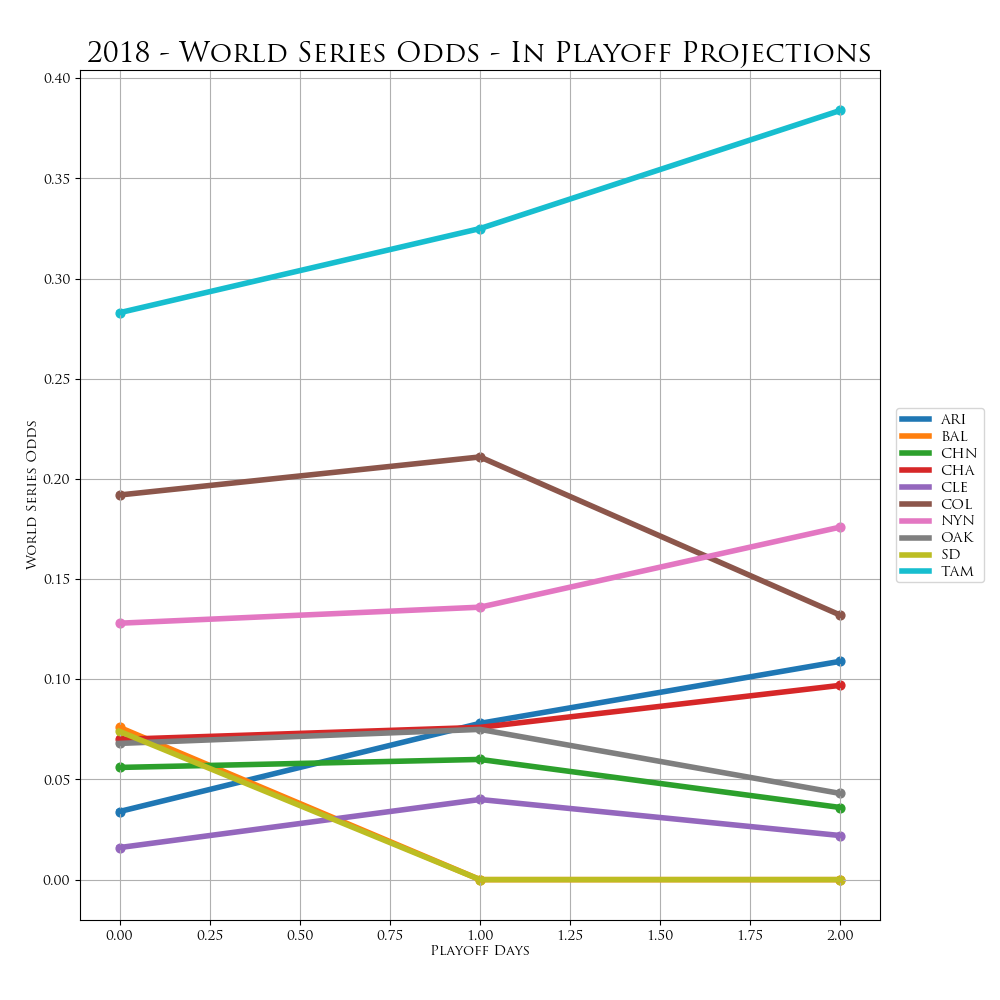
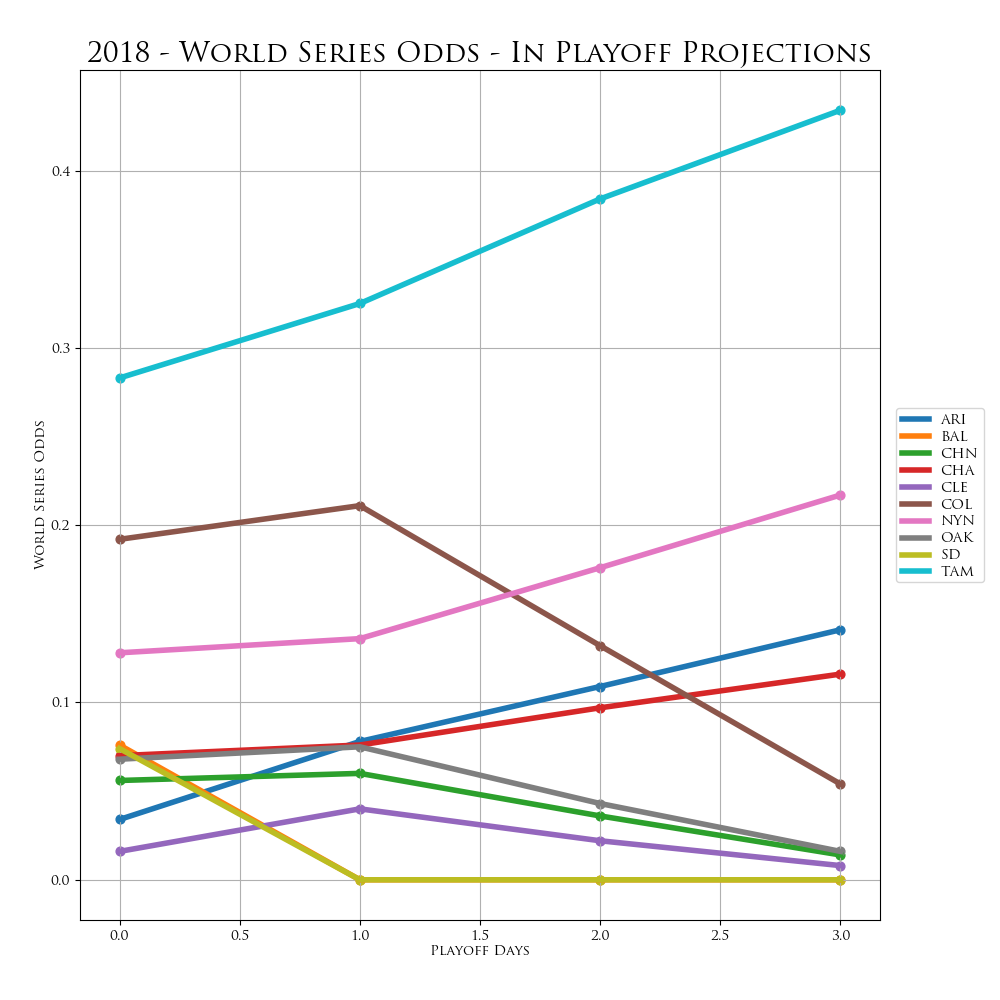
playoff NSBL update (Nov 08, 2018)

diff --git a/Tables/in_playoff_bracket.html b/Tables/in_playoff_bracket.html
@@ -227,7 +227,7 @@ c+"</h1><div>"+("function"===typeof e.message?e.message(b,h,e):e.message)+"</div
 </script>
 <script>
 		$(document).ready(function() {
-			$("#table").DataTable({"dom":"Bfrtip","sScrollX":"100%","scrollY":"70vh","buttons":["copy","csv","json","print"],"paging":true,"lengthMenu":[[-1,10,25,50],["All",10,25,50]],"data":[["ALDS1","Chicago White Sox","Oakland Athletics","1","0","68.9%","25.1%","25.1%","18.7%","",""],["ALDS1","Oakland Athletics","Chicago White Sox","0","1","31.1%","","12.4%","18.7%","",""],["ALDS2","Cleveland Indians","Tampa Bay Rays","0","1","14.7%","","5.1%","9.6%","",""],["ALDS2","Tampa Bay Rays","Cleveland Indians","1","0","85.3%","39.6%","29.4%","16.3%","",""],["ALWC","Baltimore Orioles","Cleveland Indians","0","1","0.0%","","","","",""],["ALWC","Cleveland Indians","Baltimore Orioles","1","0","100.0%","","","","",""],["NLDS1","Chicago Cubs","New York Mets","0","1","24.5%","","9.3%","15.2%","",""],["NLDS1","New York Mets","Chicago Cubs","1","0","75.5%","30.0%","27.1%","18.4%","",""],["NLDS2","Arizona Diamondbacks","Colorado Rockies","1","0","58.7%","19.1%","21.5%","18.2%","",""],["NLDS2","Colorado Rockies","Arizona Diamondbacks","0","1","41.3%","","17.9%","23.4%","",""],["NLWC","Arizona Diamondbacks","San Diego Padres","1","0","100.0%","","","","",""],["NLWC","San Diego Padres","Arizona Diamondbacks","0","1","0.0%","","","","",""]],"sScrollXInner":"100%","columns":[{"title":"Series ID"},{"title":"Team Name"},{"title":"Opponent Name"},{"title":"Series Wins"},{"title":"Series Losses"},{"title":"Advance Probability"},{"title":"Win in 3"},{"title":"Win in 4"},{"title":"Win in 5"},{"title":"Win in 6"},{"title":"Win in 7"}],"iDisplayLength":-1});
+			$("#table").DataTable({"dom":"Bfrtip","sScrollX":"100%","scrollY":"70vh","buttons":["copy","csv","json","print"],"paging":true,"lengthMenu":[[-1,10,25,50],["All",10,25,50]],"data":[["ALDS1","Chicago White Sox","Oakland Athletics","2","0","87.6%","50.1%","25.0%","12.5%","",""],["ALDS1","Oakland Athletics","Chicago White Sox","0","2","12.4%","","","12.4%","",""],["ALDS2","Cleveland Indians","Tampa Bay Rays","0","2","5.1%","","","5.1%","",""],["ALDS2","Tampa Bay Rays","Cleveland Indians","2","0","94.9%","63.0%","23.3%","8.6%","",""],["ALWC","Baltimore Orioles","Cleveland Indians","0","1","0.0%","","","","",""],["ALWC","Cleveland Indians","Baltimore Orioles","1","0","100.0%","","","","",""],["NLDS1","Chicago Cubs","New York Mets","0","2","9.3%","","","9.3%","",""],["NLDS1","New York Mets","Chicago Cubs","2","0","90.7%","54.7%","24.8%","11.2%","",""],["NLDS2","Arizona Diamondbacks","Colorado Rockies","2","0","82.1%","43.7%","24.6%","13.9%","",""],["NLDS2","Colorado Rockies","Arizona Diamondbacks","0","2","17.9%","","","17.9%","",""],["NLWC","Arizona Diamondbacks","San Diego Padres","1","0","100.0%","","","","",""],["NLWC","San Diego Padres","Arizona Diamondbacks","0","1","0.0%","","","","",""]],"sScrollXInner":"100%","columns":[{"title":"Series ID"},{"title":"Team Name"},{"title":"Opponent Name"},{"title":"Series Wins"},{"title":"Series Losses"},{"title":"Advance Probability"},{"title":"Win in 3"},{"title":"Win in 4"},{"title":"Win in 5"},{"title":"Win in 6"},{"title":"Win in 7"}],"iDisplayLength":-1});
 		});
 	</script>
 <style>

diff --git a/Tables/in_playoff_probabilities.html b/Tables/in_playoff_probabilities.html
@@ -227,7 +227,7 @@ c+"</h1><div>"+("function"===typeof e.message?e.message(b,h,e):e.message)+"</div
 </script>
 <script>
 		$(document).ready(function() {
-			$("#table").DataTable({"dom":"Bfrtip","sScrollX":"100%","scrollY":"70vh","buttons":["copy","csv","json","print"],"paging":true,"lengthMenu":[[-1,10,25,50],["All",10,25,50]],"data":[["Arizona Diamondbacks","0.0%","100.0%","100.0%","100.0%","58.7%","27.1%","10.9%"],["Baltimore Orioles","0.0%","100.0%","0.0%","0.0%","0.0%","0.0%","0.0%"],["Chicago Cubs","100.0%","0.0%","","100.0%","24.5%","9.9%","3.6%"],["Chicago White Sox","100.0%","0.0%","","100.0%","68.9%","22.9%","9.7%"],["Cleveland Indians","0.0%","100.0%","100.0%","100.0%","14.7%","6.3%","2.2%"],["Colorado Rockies","100.0%","0.0%","","100.0%","41.3%","24.7%","13.2%"],["New York Mets","100.0%","0.0%","","100.0%","75.5%","38.2%","17.6%"],["Oakland Athletics","100.0%","0.0%","","100.0%","31.1%","10.3%","4.3%"],["San Diego Padres","0.0%","100.0%","0.0%","0.0%","0.0%","0.0%","0.0%"],["Tampa Bay Rays","100.0%","0.0%","","100.0%","85.3%","60.5%","38.4%"]],"sScrollXInner":"100%","columns":[{"title":"Team Name"},{"title":"Win Div"},{"title":"Make Wild Card"},{"title":"Win Wild Card"},{"title":"Make LDS"},{"title":"Make LCS"},{"title":"Make WS"},{"title":"Win WS"}],"iDisplayLength":-1});
+			$("#table").DataTable({"dom":"Bfrtip","sScrollX":"100%","scrollY":"70vh","buttons":["copy","csv","json","print"],"paging":true,"lengthMenu":[[-1,10,25,50],["All",10,25,50]],"data":[["Arizona Diamondbacks","0.0%","100.0%","100.0%","100.0%","82.1%","36.6%","14.1%"],["Baltimore Orioles","0.0%","100.0%","0.0%","0.0%","0.0%","0.0%","0.0%"],["Chicago Cubs","100.0%","0.0%","","100.0%","9.3%","4.1%","1.4%"],["Chicago White Sox","100.0%","0.0%","","100.0%","87.6%","26.8%","11.6%"],["Cleveland Indians","0.0%","100.0%","100.0%","100.0%","5.1%","2.2%","0.8%"],["Colorado Rockies","100.0%","0.0%","","100.0%","17.9%","10.4%","5.4%"],["New York Mets","100.0%","0.0%","","100.0%","90.7%","48.9%","21.7%"],["Oakland Athletics","100.0%","0.0%","","100.0%","12.4%","3.8%","1.6%"],["San Diego Padres","0.0%","100.0%","0.0%","0.0%","0.0%","0.0%","0.0%"],["Tampa Bay Rays","100.0%","0.0%","","100.0%","94.9%","67.2%","43.4%"]],"sScrollXInner":"100%","columns":[{"title":"Team Name"},{"title":"Win Div"},{"title":"Make Wild Card"},{"title":"Win Wild Card"},{"title":"Make LDS"},{"title":"Make LCS"},{"title":"Make WS"},{"title":"Win WS"}],"iDisplayLength":-1});
 		});
 	</script>
 <style>
